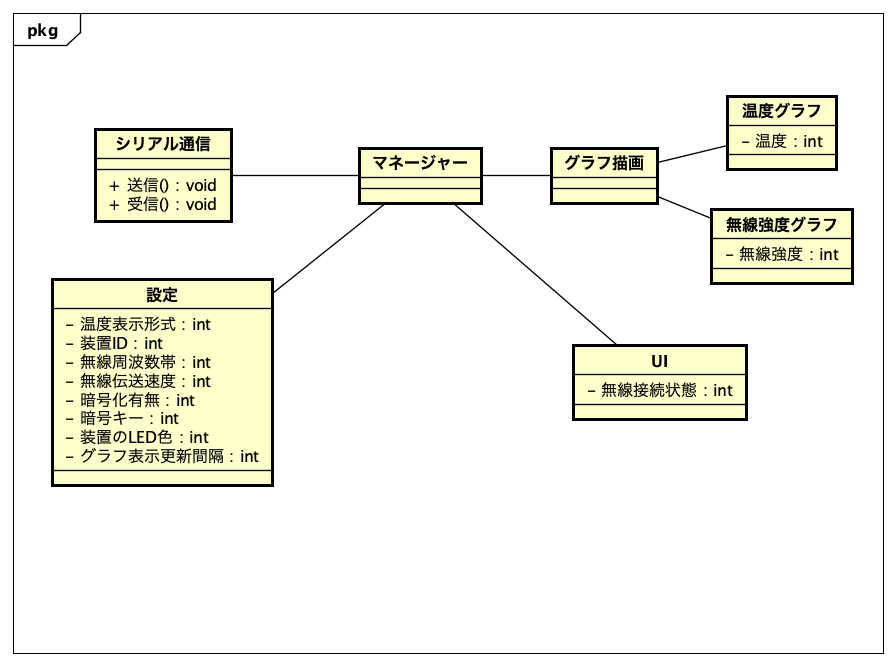
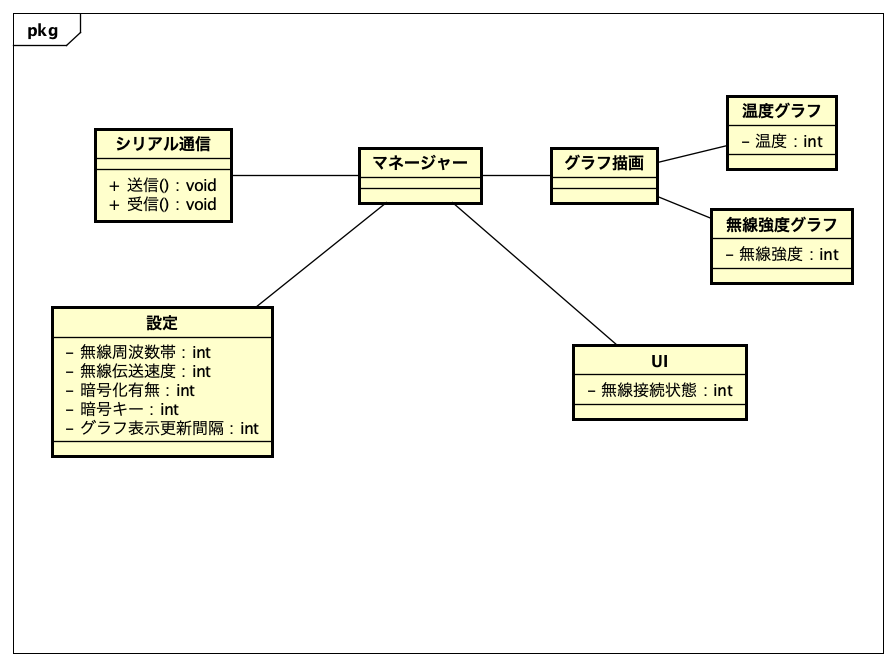
要件の欄で詳細を削除。それに関連してクラスの属性も削除。

Changed region(s): [[0.0312, 0.4204, 0.3125, 0.7508]]

diff --git a/public/231201_srp.md b/public/231201_srp.md
@@ -21,13 +21,11 @@ ignorePublish: false
 ## 要件
 * Windows Formアプリケーション
 * 言語: C#
-* 無線で装置の温度、無線強度を受信する
+* 無線でターゲット装置の温度、無線強度を受信する
 * 無線接続状態（接続・未接続）を表示する
-* 温度、無線強度をサードパーティ製のグラフ描画ライブラリで折れ線グラフを描画する
-* 通信設定（装置ID、周波数帯の設定、無線伝送速度設定）
-* セキュリティ設定（暗号化の有無、暗号キー）
-* 装置設定（装置のLED色）
-* 温度は摂氏・華氏で表示形式を変更可能
+* 温度、無線強度をサードパーティ製のグラフ描画ライブラリを使い折れ線グラフを描画する
+* 無線通信設定（周波数帯の選択、無線伝送速度設定）
+* 無線セキュリティ設定（暗号化の有無、暗号キー）
 * グラフ表示更新間隔設定（100ms〜1000ms）
 
 ## ブロック図
@@ -38,7 +36,7 @@ ignorePublish: false
 
 # ダメな設計
 ## クラス図
-![class.png](https://qiita-image-store.s3.ap-northeast-1.amazonaws.com/0/171866/d8b7aaf6-3a00-a4ca-28f0-c547243495cb.png)
+![class.png](https://qiita-image-store.s3.ap-northeast-1.amazonaws.com/0/171866/aa6bf9f9-4079-a275-769a-1f63b7aaa5ac.png)
 
 # 改善点
 ## 
